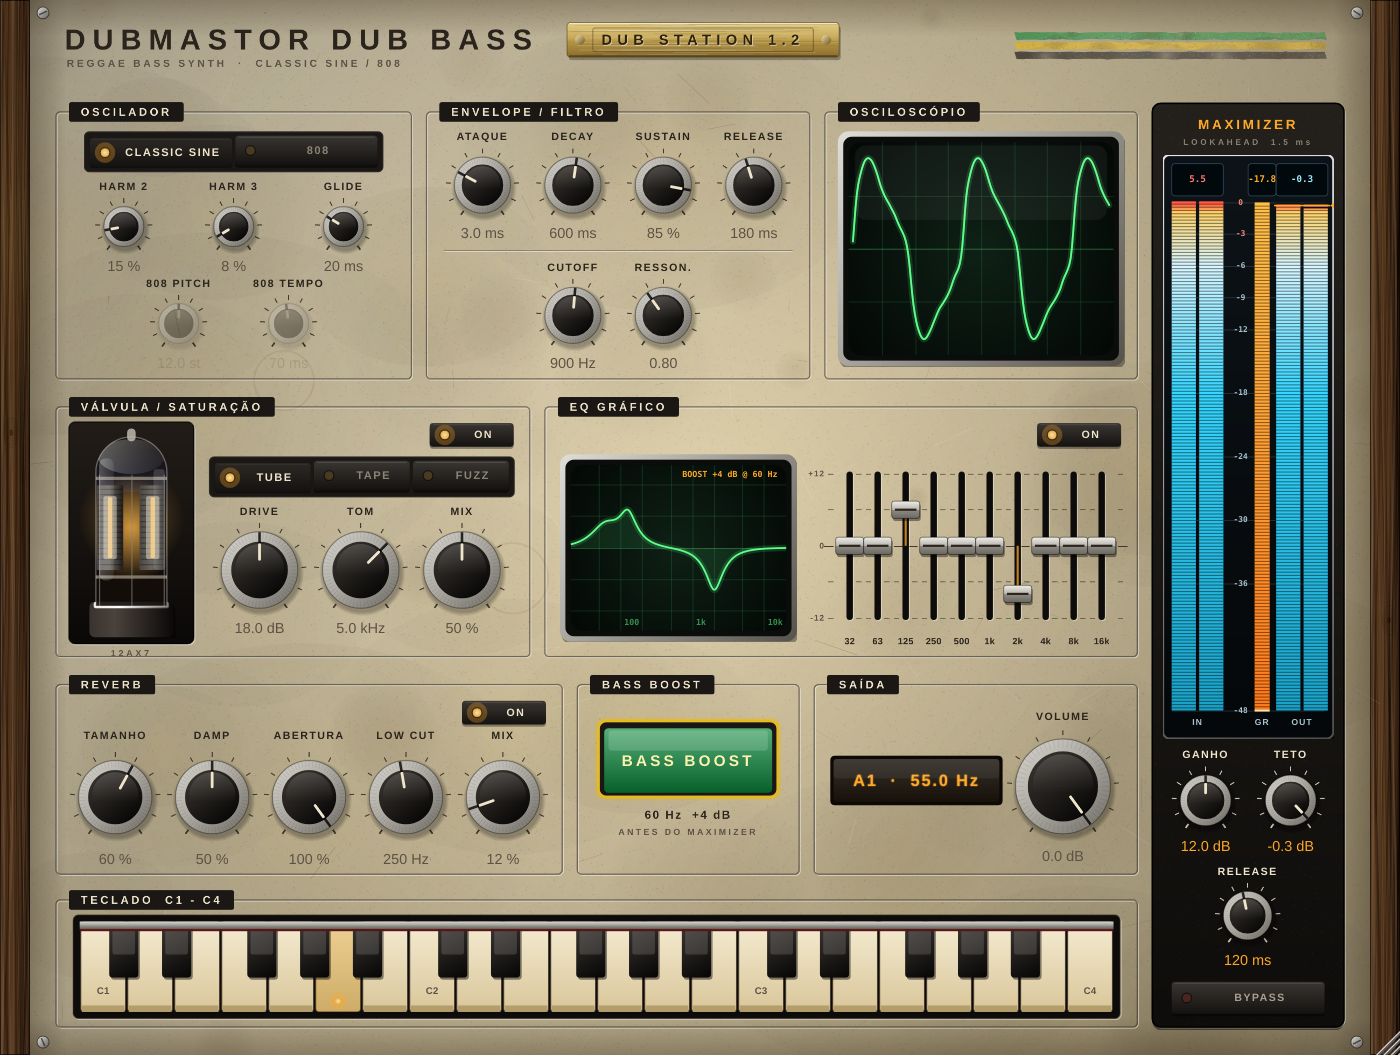
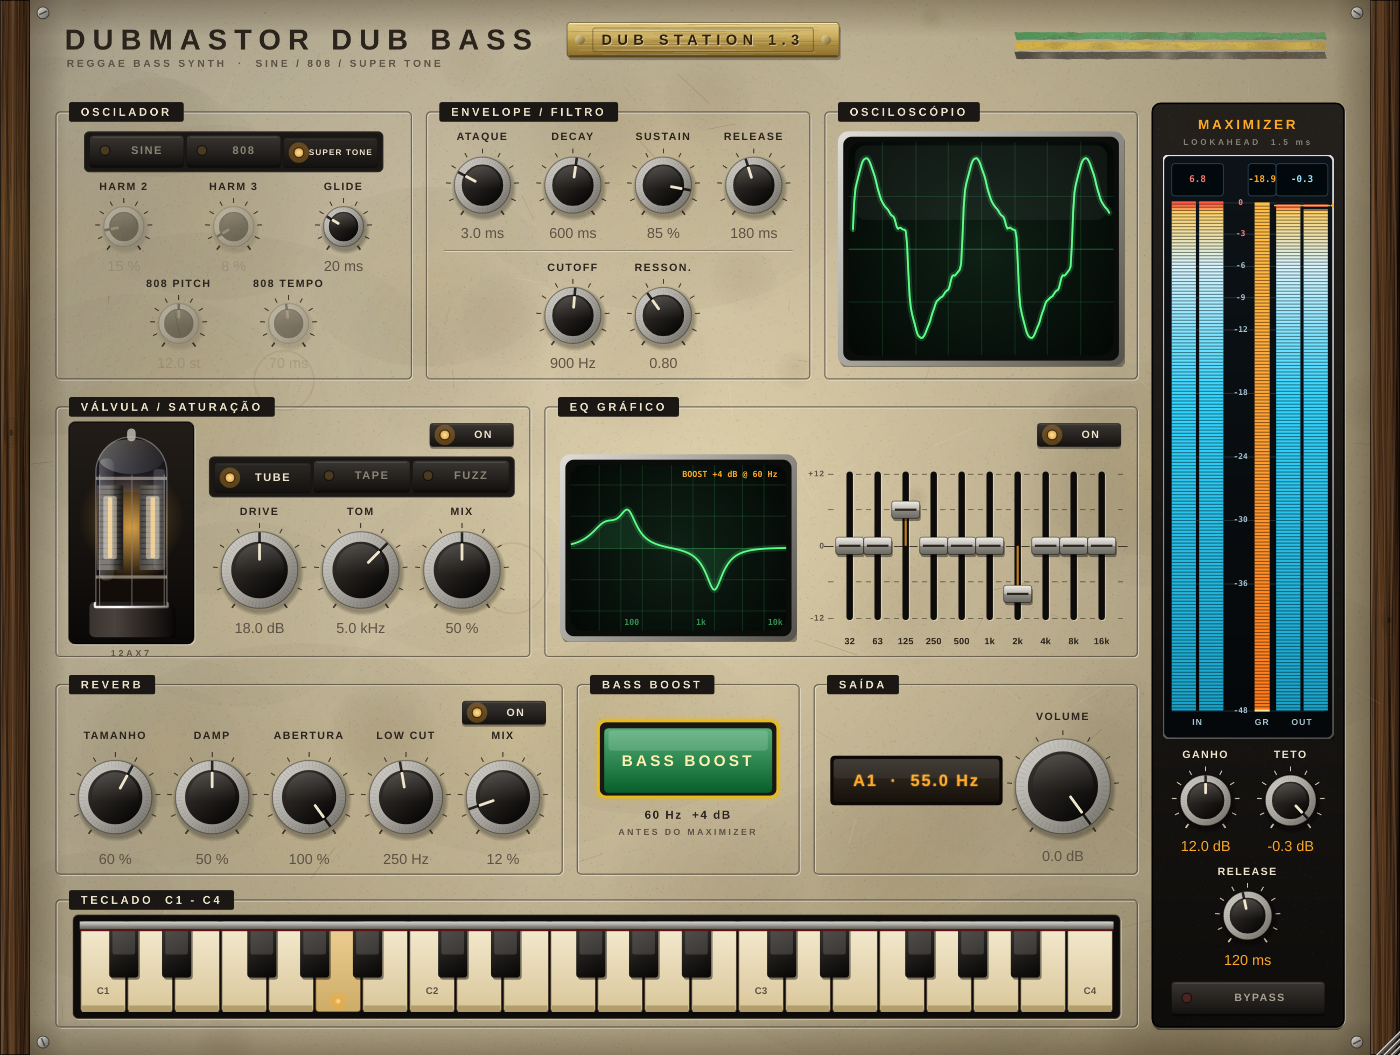
Dub Bass 1.3: timbre Super Tone (King Jammy) e válvula/reverb desligados por padrão
- Terceiro timbre SUPER TONE: baixo digital da era Super Power / Sleng Teng
  (quadrada polyBLEP + peso de senoide + grão de 7 bits)
- Válvula (saturação) e reverb começam desligados
- Teclas do oscilador: SINE / 808 / SUPER TONE; texto se ajusta à tecla
- Versão 1.3 na plaqueta, README, notas e site; teste cobre o Super Tone e os padrões

Claude-Session: https://claude.ai/code/session_01DJAeyYx8bE3tBpWMHDuGKq

diff --git a/site/index.html b/site/index.html
@@ -6,7 +6,7 @@
 <title>DubMastor — Plugins de dub (VST3 / AU)</title>
 <meta name="description" content="Baixe o Mastor Riddim Machine MRM-0420 e os plugins DubMastor Big Knob, Dub Station 2.6, DubMastor Roots Keys, Dub Chords, Dub Bass, Dub Drums, Mastor Bass Machine e Mastor Fone — VST3 para Windows e Mac, AU para Mac. Grátis.">
 <meta property="og:title" content="DubMastor — Plugins de dub">
-<meta property="og:description" content="Big Knob 3.2, Dub Station 2.6, DubMastor Roots Keys, Dub Chords, Dub Bass 1.2 e Mastor Fone: filtro estilo King Tubby, eco de fita, reverb de mola, piano M1, órgão Hammond, baixo de senoide e 808 e voz de rádio, telefone e megafone. VST3 / AU, Windows e Mac.">
+<meta property="og:description" content="Big Knob 3.2, Dub Station 2.6, DubMastor Roots Keys, Dub Chords, Dub Bass 1.3 e Mastor Fone: filtro estilo King Tubby, eco de fita, reverb de mola, piano M1, órgão Hammond, baixo de senoide e 808 e voz de rádio, telefone e megafone. VST3 / AU, Windows e Mac.">
 <meta property="og:image" content="img/dubstation21.jpg">
 <style>
   @font-face { font-family: "Plate"; src: url("fonts/ArchivoBlack-Regular.ttf") format("truetype"); font-display: swap; }
@@ -328,19 +328,19 @@
         <article class="card">
           <img class="shot" src="img/dubbass.jpg" alt="Interface do Dub Bass: painel creme com laterais de madeira e plaqueta de latão; seções de oscilador, envelope e filtro, osciloscópio verde, válvula 12AX7 acesa ao lado dos knobs de saturação, EQ gráfico com faders, reverb, botão verde de bass boost, teclado de marfim de C1 a C4 e, na lateral direita, o maximizer com VU digital" width="1400" height="786" loading="lazy">
           <div class="body">
-            <h3>Dub Bass <small>1.2</small></h3>
-            <p>Sintetizador de baixo de reggae: a senoide redonda do roots clássico com harmônicos, ou o 808 com o pitch caindo. Mono, com glide entre as notas.</p>
+            <h3>Dub Bass <small>1.3</small></h3>
+            <p>Sintetizador de baixo de reggae: a senoide redonda do roots clássico com harmônicos, o 808 com o pitch caindo ou o Super Tone digital da era King Jammy. Mono, com glide entre as notas.</p>
             <ul>
-              <li>Modos Classic Sine (harmônicos 2 e 3) e 808 (drop de pitch e saturação)</li>
-              <li>Saturação Tube / Tape / Fuzz com válvula animada que muda de cor conforme esquenta</li>
+              <li>Timbres Sine (harmônicos 2 e 3), 808 (drop de pitch) e Super Tone (o baixo digital Sleng Teng do King Jammy)</li>
+              <li>Saturação Tube / Tape / Fuzz com válvula animada que muda de cor conforme esquenta (válvula e reverb começam desligados)</li>
               <li>EQ gráfico de 10 bandas, reverb com low cut e BASS BOOST de +4 dB em 60 Hz</li>
               <li>Maximizer na lateral com VU digital estilo Ozone (entrada, GR e saída) e BYPASS</li>
               <li>Teclado de C1 a C4 no padrão Dub Station: toca clicando e acende com o MIDI</li>
             </ul>
             <div class="formats">Instrumento · Windows: VST3 + standalone · Mac: VST3, AU + standalone (Intel e Apple Silicon)</div>
             <div class="dl">
-              <a class="btn" href="https://github.com/dubmastor/DubMastor-DubStation-/releases/download/DubBass-1.2/DubBass-Windows.zip">⬇ Windows<span>VST3 · zip</span></a>
-              <a class="btn alt" href="https://github.com/dubmastor/DubMastor-DubStation-/releases/download/DubBass-1.2/DubBass-macOS.zip">⬇ Mac<span>VST3 + AU · zip</span></a>
+              <a class="btn" href="https://github.com/dubmastor/DubMastor-DubStation-/releases/download/DubBass-1.3/DubBass-Windows.zip">⬇ Windows<span>VST3 · zip</span></a>
+              <a class="btn alt" href="https://github.com/dubmastor/DubMastor-DubStation-/releases/download/DubBass-1.3/DubBass-macOS.zip">⬇ Mac<span>VST3 + AU · zip</span></a>
             </div>
           </div>
         </article>

diff --git a/DubBass/Source/PluginEditor.cpp b/DubBass/Source/PluginEditor.cpp
@@ -306,8 +306,12 @@ static void pushButtonCap (juce::Graphics& g, juce::Rectangle<float> r, bool on,
     g.drawEllipse (lamp, 1.0f);
 
     g.setColour (on ? colours::cream : colours::cream.withAlpha (0.5f));
-    g.setFont (stencil (11.5f, 0.12f));
-    g.drawText (text, cap.withTrimmedLeft (22.0f), juce::Justification::centred);
+    auto area = cap.withTrimmedLeft (22.0f).withTrimmedRight (3.0f);
+    float size = 11.5f;
+    while (size > 8.0f && juce::GlyphArrangement::getStringWidth (stencil (size, 0.12f), text) > area.getWidth())
+        size -= 0.5f;
+    g.setFont (stencil (size, 0.12f));
+    g.drawText (text, area, juce::Justification::centred);
 }
 
 ChoiceKeys::ChoiceKeys (juce::RangedAudioParameter& p, juce::StringArray names)
@@ -888,7 +892,7 @@ void DubKeyboard::paint (juce::Graphics& g)
 //==============================================================================
 DubBassPanel::DubBassPanel (DubBassAudioProcessor& p)
     : proc (p),
-      modeKeys (*p.apvts.getParameter (ParamID::mode), { "CLASSIC SINE", "808" }),
+      modeKeys (*p.apvts.getParameter (ParamID::mode), { "SINE", "808", "SUPER TONE" }),
       drvTypeKeys (*p.apvts.getParameter (ParamID::drvType), { "TUBE", "TAPE", "FUZZ" }),
       eqCurve (p), scope (p), keyboard (p.keyboardState), meter (p)
 {
@@ -1006,7 +1010,13 @@ void DubBassPanel::timerCallback()
                  proc.driveLevel.load());
 
     // knobs do 808 só valem no modo 808; sustain não existe no 808
-    const bool is808 = proc.apvts.getRawParameterValue (ParamID::mode)->load() > 0.5f;
+    const int  mode  = juce::roundToInt (proc.apvts.getRawParameterValue (ParamID::mode)->load());
+    const bool is808 = mode == 1;
+    for (auto* k : { &harm2, &harm3 })      // o Super Tone tem forma de onda própria
+    {
+        k->slider.setEnabled (mode != 2);
+        k->slider.setAlpha (mode == 2 ? 0.4f : 1.0f);
+    }
     for (auto* k : { &pitchAmt, &pitchTime })
     {
         k->slider.setEnabled (is808);
@@ -1219,7 +1229,7 @@ void DubBassPanel::renderBackground()
     }
     g.setColour (colours::inkSoft);
     g.setFont (stencil (10.5f, 0.25f));
-    g.drawText (juce::String::fromUTF8 ("REGGAE BASS SYNTH  ·  CLASSIC SINE / 808"), plate.getX() + 34, 52, 600, 14, juce::Justification::left);
+    g.drawText (juce::String::fromUTF8 ("REGGAE BASS SYNTH  ·  SINE / 808 / SUPER TONE"), plate.getX() + 34, 52, 600, 14, juce::Justification::left);
 
     {   // faixas da bandeira da Jamaica, pintadas à mão e envelhecidas
         const float sx = (float) plate.getRight() - 330.0f, sw = 290.0f, sh = 7.0f;

diff --git a/DubBass/Source/BassVoice.h b/DubBass/Source/BassVoice.h
@@ -13,7 +13,7 @@
 class BassVoice
 {
 public:
-    enum class Mode { ClassicSine = 0, Eight08 = 1 };
+    enum class Mode { ClassicSine = 0, Eight08 = 1, SuperTone = 2 };
 
     struct Params
     {
@@ -158,6 +158,9 @@ public:
 
         s /= norm;
 
+        if (params.mode == Mode::SuperTone)
+            s = superTone (ph, freq);
+
         if (params.mode == Mode::Eight08)
         {
             static const float k = 1.0f / std::tanh (1.8f);
@@ -168,6 +171,40 @@ public:
     }
 
 private:
+    //==========================================================================
+    // SUPER TONE: o baixo digital da era Super Power / Sleng Teng (teclado Casio dos anos 80).
+    // Quadrada com polyBLEP (sem aliasing) + um pouco de senoide para o peso, oitava acima
+    // bem baixa, e o grão digital de poucos bits (quantização em 7 bits).
+    static float polyBlep (double t, double dt) noexcept
+    {
+        if (t < dt)        { t /= dt; return (float) (t + t - t * t - 1.0); }
+        if (t > 1.0 - dt)  { t = (t - 1.0) / dt; return (float) (t * t + t + t + 1.0); }
+        return 0.0f;
+    }
+
+    float superTone (float ph, double freq) noexcept
+    {
+        constexpr double twoPi = juce::MathConstants<double>::twoPi;
+        const double t  = (double) ph / twoPi;
+        const double dt = freq / sampleRate;
+
+        float sq = t < 0.5 ? 1.0f : -1.0f;                   // quadrada 50 %
+        sq += polyBlep (t, dt);
+        sq -= polyBlep (std::fmod (t + 0.5, 1.0), dt);
+
+        // passa-baixa de 1 polo acompanhando a nota: corpo "oco" do timbre de teclado
+        const float a = (float) (1.0 - std::exp (-juce::MathConstants<double>::twoPi * std::min (freq * 9.0, sampleRate * 0.4) / sampleRate));
+        stLp += a * (sq - stLp);
+
+        float s = 0.62f * stLp + 0.48f * std::sin (ph) + 0.10f * std::sin (2.0f * ph);
+
+        constexpr float steps = 63.0f;                      // 7 bits
+        s = std::round (s * steps) / steps;
+        return s * 0.92f;
+    }
+
+    float stLp = 0.0f;
+
     //==========================================================================
     // Envelope ADSR com decay/release exponenciais (soa mais natural no 808)
     struct Envelope

diff --git a/DubBass/Source/PluginProcessor.cpp b/DubBass/Source/PluginProcessor.cpp
@@ -94,7 +94,7 @@ juce::AudioProcessorValueTreeState::ParameterLayout DubBassAudioProcessor::creat
     };
 
     // OSC
-    addChoice (ParamID::mode, "Mode", { "Classic Sine", "808" }, 0);
+    addChoice (ParamID::mode, "Mode", { "Classic Sine", "808", "Super Tone" }, 0);
     addFloat  (ParamID::harm2,     "Harmonic 2",  { 0.0f, 1.0f }, 0.15f, fmtPct);
     addFloat  (ParamID::harm3,     "Harmonic 3",  { 0.0f, 1.0f }, 0.08f, fmtPct);
     addFloat  (ParamID::glide,     "Glide",       skewed (0.0f, 500.0f, 80.0f), 20.0f, fmtMs);
@@ -110,7 +110,7 @@ juce::AudioProcessorValueTreeState::ParameterLayout DubBassAudioProcessor::creat
     addFloat (ParamID::reso,    "Resonance", skewed (0.5f, 6.0f, 1.2f), 0.8f, fmtQ);
 
     // DRIVE
-    addBool   (ParamID::drvOn,   "Drive On", true);
+    addBool   (ParamID::drvOn,   "Drive On", false);   // válvula começa desligada
     addChoice (ParamID::drvType, "Drive Type", { "Tube", "Tape", "Fuzz" }, 0);
     addFloat  (ParamID::drive,   "Drive",      { 0.0f, 36.0f }, 6.0f, fmtDb);
     addFloat  (ParamID::drvTone, "Drive Tone", skewed (400.0f, 16000.0f, 2500.0f), 5000.0f, fmtHz);
@@ -126,7 +126,7 @@ juce::AudioProcessorValueTreeState::ParameterLayout DubBassAudioProcessor::creat
     }
 
     // REVERB
-    addBool  (ParamID::revOn,     "Reverb On", true);
+    addBool  (ParamID::revOn,     "Reverb On", false);  // reverb começa desligado
     addFloat (ParamID::revSize,   "Reverb Size",    { 0.0f, 1.0f }, 0.6f, fmtPct);
     addFloat (ParamID::revDamp,   "Reverb Damping", { 0.0f, 1.0f }, 0.5f, fmtPct);
     addFloat (ParamID::revWidth,  "Reverb Width",   { 0.0f, 1.0f }, 1.0f, fmtPct);
@@ -217,7 +217,7 @@ void DubBassAudioProcessor::prepareToPlay (double sampleRate, int samplesPerBloc
 void DubBassAudioProcessor::updateVoiceParams()
 {
     BassVoice::Params vp;
-    vp.mode        = prm.mode->load() > 0.5f ? BassVoice::Mode::Eight08 : BassVoice::Mode::ClassicSine;
+    vp.mode        = (BassVoice::Mode) juce::jlimit (0, 2, juce::roundToInt (prm.mode->load()));
     vp.harm2       = prm.harm2->load();
     vp.harm3       = prm.harm3->load();
     vp.glideMs     = prm.glide->load();

diff --git a/DubBass/tests/render_test.cpp b/DubBass/tests/render_test.cpp
@@ -79,11 +79,21 @@ int main (int argc, char** argv)
     check (pk <= -0.29f, "808 + boost + drive alto: pico " + juce::String (pk, 2) + " dBFS respeita o teto");
     check (p.gainReductionDb.load() < -0.5f || p.driveLevel.load() >= 0.0f, "maximizer reduzindo ganho / medidores ativos");
 
+    setP (p, ParamID::mode, 2); setP (p, ParamID::boost, 0); setP (p, ParamID::drive, 6); setP (p, ParamID::maxGain, 3);
+    pk = play (p, 48000.0, dir.getChildFile ("supertone.wav"), nan);
+    check (pk <= -0.29f && pk > -12.0f, "Super Tone: pico " + juce::String (pk, 2) + " dBFS respeita o teto");
+
+    DubBassAudioProcessor fresh;
+    check (fresh.apvts.getRawParameterValue (ParamID::drvOn)->load() < 0.5f
+           && fresh.apvts.getRawParameterValue (ParamID::revOn)->load() < 0.5f, "valvula e reverb comecam desligados");
+
+    setP (p, ParamID::mode, 1); setP (p, ParamID::boost, 1); setP (p, ParamID::drive, 20); setP (p, ParamID::maxGain, 12);
     setP (p, ParamID::maxBypass, 1);
     pk = play (p, 48000.0, {}, nan);
     check (pk > -0.3f, "BYPASS do maximizer deixa passar acima do teto (" + juce::String (pk, 2) + " dBFS)");
     setP (p, ParamID::maxBypass, 0);
 
+    setP (p, ParamID::drvOn, 1); setP (p, ParamID::revOn, 1);
     setP (p, ParamID::drvType, 2); setP (p, "eq2", 6.0f); setP (p, "eq6", -8.0f);
     pk = play (p, 96000.0, {}, nan);
     check (pk <= -0.29f, "Fuzz + EQ a 96 kHz respeita o teto");
@@ -97,7 +107,8 @@ int main (int argc, char** argv)
            "estado salva e carrega");
 
     // interface: válvula quente, nota tocando e medidores cheios
-    setP (p, ParamID::mode, 0); setP (p, ParamID::drvType, 0); setP (p, ParamID::drive, 18);
+    setP (p, ParamID::mode, 2); setP (p, ParamID::drvType, 0); setP (p, ParamID::drive, 18);
+    setP (p, ParamID::drvOn, 1);
     play (p, 48000.0, {}, nan);
     std::unique_ptr<juce::AudioProcessorEditor> ed (p.createEditor());
     {

diff --git a/README.md b/README.md
@@ -20,7 +20,7 @@ bubble, já alinhados, de 4 a 64 compassos) para a timeline. Um projeto começa 
 | **DubMastor Big Knob 3.2** | Estação de dub: filtro big knob estilo King Tubby (com bypass), eco de fita com cabeçotes, presets de EQ e liga/desliga, sirene de dub, VUs e maximizer | [⬇ macOS](https://github.com/dubmastor/DubMastor-DubStation-/releases/latest/download/DubMastorBigKnob-macOS.zip) | [⬇ Windows](https://github.com/dubmastor/DubMastor-DubStation-/releases/latest/download/DubMastorBigKnob-Windows.zip) | [BigKnob/](BigKnob/) |
 | **DubMastor Roots Keys 2.2** | Instrumento: piano estilo Korg M1 e órgão estilo Hammond com Leslie, eco de fita FitaEco, flanger dub, maximizer, VUs e teclado que acende com o MIDI; aba **Dub Chords** para montar o riddim e arrastar o MIDI para a DAW; visual de teclado anos 80 no piano e de madeira e marfim no órgão | [⬇ macOS](https://github.com/dubmastor/DubMastor-DubStation-/releases/download/RootsKeys-2.2/DubMastorRootsKeys-macOS.zip) | [⬇ Windows](https://github.com/dubmastor/DubMastor-DubStation-/releases/download/RootsKeys-2.2/DubMastorRootsKeys-Windows.zip) | [RootsKeys/](RootsKeys/) |
 | **DubMastor Dub Chords 1.3** | Instrumento / gerador MIDI: escolha até 4 acordes (teclado mecânico, maior/menor, inversões com sugestão automática, contador de compassos) e ele toca o skank de piano M1 com as duas mãos e o bubble de Hammond no andamento da DAW; arraste o MIDI colorido por acorde para a timeline | [⬇ macOS](https://github.com/dubmastor/DubMastor-DubStation-/releases/download/DubChords-1.3/DubMastorDubChords-macOS.zip) | [⬇ Windows](https://github.com/dubmastor/DubMastor-DubStation-/releases/download/DubChords-1.3/DubMastorDubChords-Windows.zip) | [DubChords/](DubChords/) |
-| **Dub Bass - Dub Station 1.2** | Instrumento: baixo de reggae em senoide com harmônicos ou 808, teclado C1–C4 que acende com o MIDI, saturação com válvula animada, EQ gráfico, reverb, bass boost em 60 Hz e maximizer com VU digital estilo Ozone, no visual do Dub Chords | [⬇ macOS](https://github.com/dubmastor/DubMastor-DubStation-/releases/download/DubBass-1.2/DubBass-macOS.zip) | [⬇ Windows](https://github.com/dubmastor/DubMastor-DubStation-/releases/download/DubBass-1.2/DubBass-Windows.zip) | [DubBass/](DubBass/) |
+| **Dub Bass - Dub Station 1.3** | Instrumento: baixo de reggae em senoide com harmônicos, 808 ou Super Tone (digital King Jammy), teclado C1–C4 que acende com o MIDI, saturação com válvula animada, EQ gráfico, reverb, bass boost em 60 Hz e maximizer com VU digital estilo Ozone, no visual do Dub Chords | [⬇ macOS](https://github.com/dubmastor/DubMastor-DubStation-/releases/download/DubBass-1.3/DubBass-macOS.zip) | [⬇ Windows](https://github.com/dubmastor/DubMastor-DubStation-/releases/download/DubBass-1.3/DubBass-Windows.zip) | [DubBass/](DubBass/) |
 | **DubMastor Dub Drums 1.0** | Instrumento / gerador MIDI: esqueleto da bateria de reggae (One Drop, Rockers, Steppa) com chave de baterista (Style Scott, Santa Davis, Carlton Barrett) que muda o balanço e as viradas, virada de intro, preview com bateria interna, MIDI colorido por compasso e mapa de notas para qualquer kit | [⬇ macOS](https://github.com/dubmastor/DubMastor-DubStation-/releases/download/DubDrums-1.0/DubMastorDubDrums-macOS.zip) | [⬇ Windows](https://github.com/dubmastor/DubMastor-DubStation-/releases/download/DubDrums-1.0/DubMastorDubDrums-Windows.zip) | [DubDrums/](DubDrums/) |
 | **Mastor Bass Machine MBM-710 2.0** | Instrumento / gerador de reggae bass lines em MIDI: botoeira com 7 baixistas (Family Man, Flabba, Derrick Barnett, Robbie, Leroy Sibbles, Fully Fullwood, Jammys/Sleng Teng) sobre até 4 acordes; preview com os timbres do Dub Bass, bateria de acompanhamento (Roots, One Drop, Digital, Dancehall) e teclado do Roots Keys; arraste o MIDI para a timeline | [⬇ macOS](https://github.com/dubmastor/DubMastor-DubStation-/releases/download/BassMachine-2.0/MastorBassMachine-macOS.zip) | [⬇ Windows](https://github.com/dubmastor/DubMastor-DubStation-/releases/download/BassMachine-2.0/MastorBassMachine-Windows.zip) | [BassMachine/](BassMachine/) |
 | **Mastor Dub Horns 1.1** | Instrumento: naipe de metais anos 70 (trompete, flugel, saxes e trombone) com harmonia no tom, timbres de estúdio jamaicano, Mastor Tape Echo, EQ gráfico de 10 bandas com Filtro Tubby e frases MIDI (ataques estilo Dean Fraser e introduções) com notas escolhidas por você; também [toca no navegador](https://dubmastor.github.io/DubMastor-DubStation-/horns/) | [⬇ macOS](https://github.com/dubmastor/DubMastor-DubStation-/releases/download/MastorDubHorns-1.1/MastorDubHorns-macOS.zip) | [⬇ Windows](https://github.com/dubmastor/DubMastor-DubStation-/releases/download/MastorDubHorns-1.1/MastorDubHorns-Windows.zip) | [MastorDubHorns/](MastorDubHorns/) |

diff --git a/DubBass/README.md b/DubBass/README.md
@@ -1,4 +1,4 @@
-# Dub Bass - Dub Station 1.2
+# Dub Bass - Dub Station 1.3
 
 Instrumento de baixo de reggae (VST3 / AU / Standalone) da linha **DubMastor · Dub Station**, no mesmo visual do Dub Chords: painel creme envelhecido, laterais de madeira, plaqueta de latão com a versão, knobs de baquelite e lâmpadas âmbar.
 
@@ -7,7 +7,7 @@ Instrumento de baixo de reggae (VST3 / AU / Standalone) da linha **DubMastor · 
 ## Cadeia de sinal
 
 ```
-OSCILADOR (Classic Sine + harmônicos | 808) → FILTRO → ENVELOPE → VÁLVULA / SATURAÇÃO (2x oversampling)
+OSCILADOR (Classic Sine + harmônicos | 808 | Super Tone) → FILTRO → ENVELOPE → VÁLVULA / SATURAÇÃO (2x oversampling)
 → EQ GRÁFICO 10 bandas → REVERB (envio paralelo com low cut) → BASS BOOST 60 Hz +4 dB
 → MAXIMIZER (lookahead 1.5 ms, com BYPASS) → VOLUME
 ```
@@ -16,12 +16,12 @@ OSCILADOR (Classic Sine + harmônicos | 808) → FILTRO → ENVELOPE → VÁLVUL
 
 | Seção | O que tem |
 |---|---|
-| **Oscilador** | Teclas CLASSIC SINE / 808, Harm 2, Harm 3, Glide, 808 Pitch e 808 Tempo (só acendem no modo 808) |
+| **Oscilador** | Teclas SINE / 808 / SUPER TONE, Harm 2 e Harm 3 (no Sine e no 808), Glide, 808 Pitch e 808 Tempo (só no 808). O **Super Tone** é o baixo digital da era Super Power do King Jammy (Sleng Teng): quadrada sem aliasing com peso de senoide e o grão de 7 bits do teclado Casio dos anos 80 |
 | **Envelope / Filtro** | Ataque, Decay, Sustain (desligado no 808), Release, Cutoff e Ressonância |
 | **Osciloscópio** | Tela de fósforo verde com a onda da saída, parada no cruzamento por zero |
-| **Válvula / Saturação** | ON, teclas TUBE / TAPE / FUZZ, Drive, Tom e Mix. A válvula 12AX7 esquenta com o DRIVE e com o sinal: vai do vermelho apagado ao laranja, âmbar e branco quente, com o brilho azul de válvula forçada no limite. Esquenta rápido e esfria devagar |
+| **Válvula / Saturação** | ON (começa desligada), teclas TUBE / TAPE / FUZZ, Drive, Tom e Mix. A válvula 12AX7 esquenta com o DRIVE e com o sinal: vai do vermelho apagado ao laranja, âmbar e branco quente, com o brilho azul de válvula forçada no limite. Esquenta rápido e esfria devagar |
 | **EQ gráfico** | ON, 10 faders ±12 dB (32 Hz a 16 kHz) e a curva em tela verde (mostra o Bass Boost também) |
-| **Reverb** | ON, Tamanho, Damp, Abertura, Low Cut (o grave fica seco) e Mix |
+| **Reverb** | ON (começa desligado), Tamanho, Damp, Abertura, Low Cut (o grave fica seco) e Mix |
 | **Bass Boost** | Botão verde: +4 dB em 60 Hz, antes do maximizer |
 | **Saída** | Display âmbar com a nota tocando (nome e Hz) e Volume |
 | **Teclado** | C1 a C4 no padrão Dub Station (marfim, baquelite, barra cromada com feltro vermelho): toca clicando (mais embaixo na tecla = mais forte) e acende com lâmpada âmbar nas notas que chegam da DAW |

diff --git a/DubBass/RELEASE_NOTES.md b/DubBass/RELEASE_NOTES.md
@@ -1,8 +1,12 @@
-## Dub Bass - Dub Station 1.2 🟢🟡⚫
+## Dub Bass - Dub Station 1.3 🟢🟡⚫
 
-Baixo de reggae para a linha Dub Station: a senoide redonda do roots clássico com harmônicos, ou o 808 com o pitch caindo.
+Baixo de reggae para a linha Dub Station: a senoide redonda do roots clássico com harmônicos, o 808 com o pitch caindo, ou o Super Tone digital da era King Jammy.
 
-**Novo na 1.2**
+**Novo na 1.3**
+- **SUPER TONE**: terceiro timbre, o baixo digital do Super Power do King Jammy (era Sleng Teng). Quadrada sem aliasing com o peso da senoide e o grão de 7 bits do teclado Casio dos anos 80
+- A válvula (saturação) e o reverb agora começam **desligados**: o baixo sai limpo e seco, e você liga o que quiser
+
+**Na 1.2**
 - **Teclado** de C1 a C4 no padrão Dub Station: teclas de marfim e baquelite, barra cromada com feltro vermelho e lâmpada âmbar nas teclas tocadas. Toca clicando e acende com o MIDI da DAW
 - Display da nota na mesma numeração do teclado (55 Hz = A1)
 
